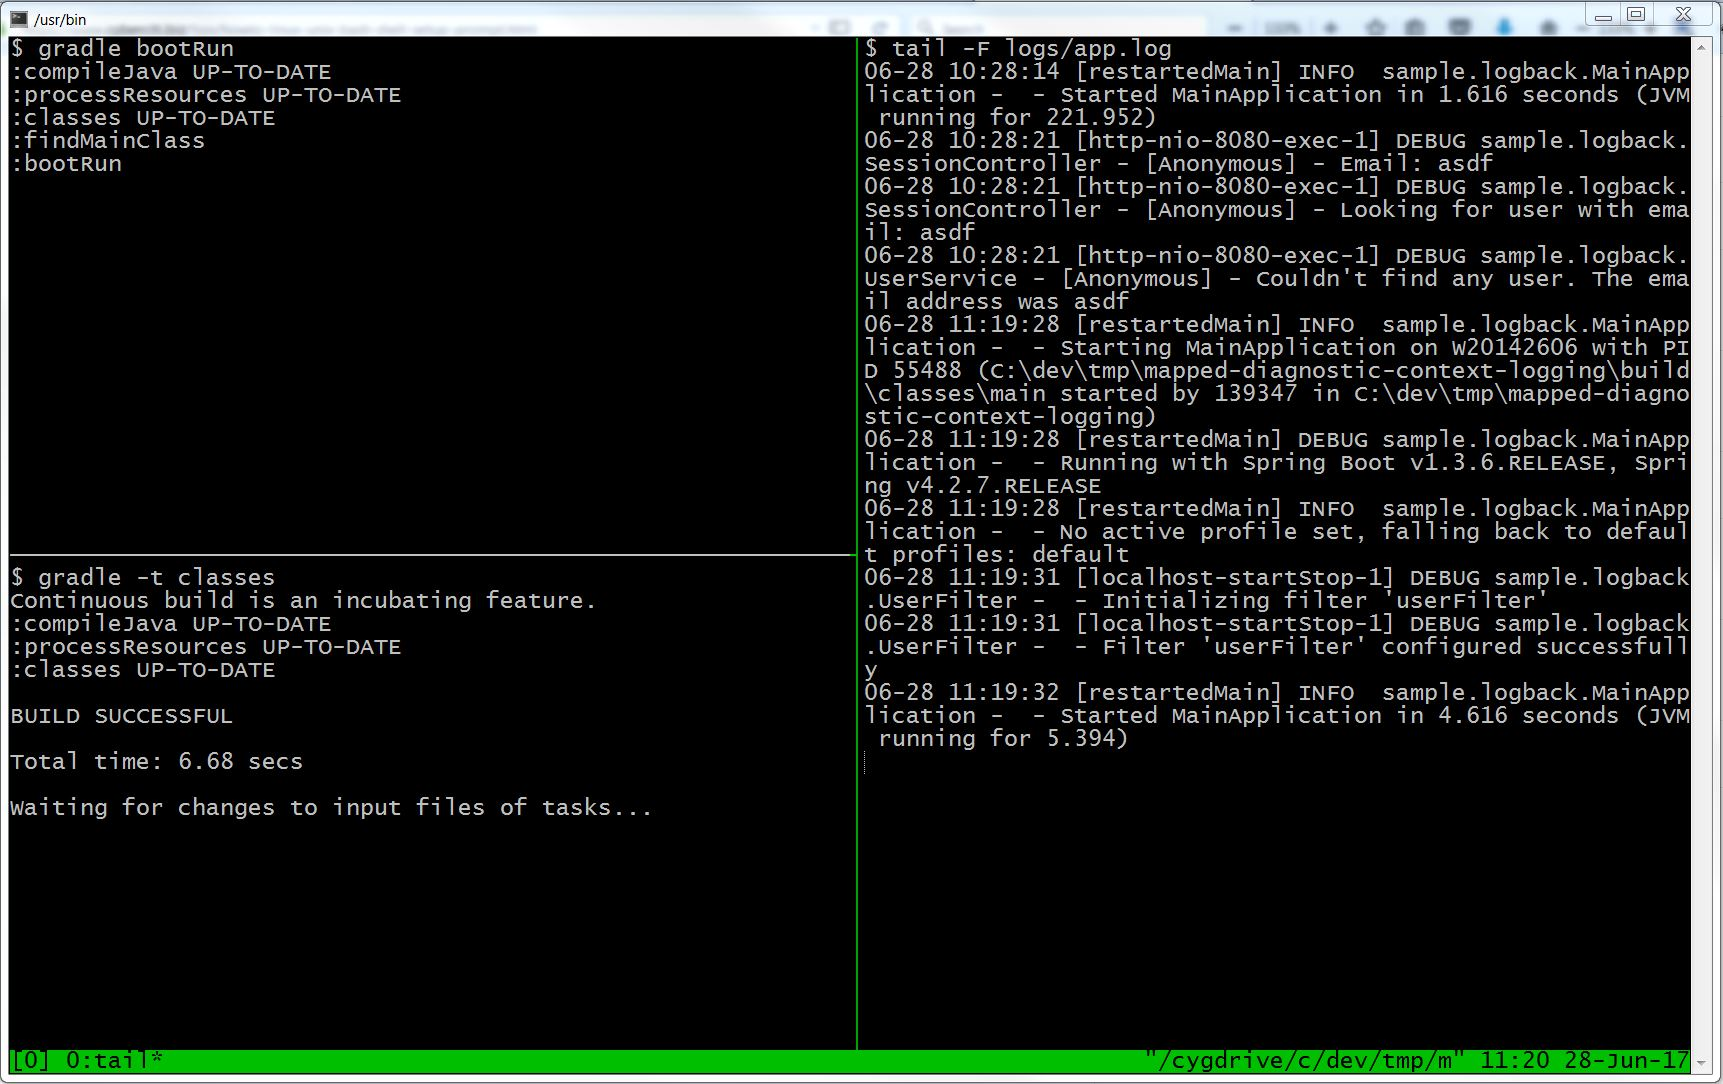
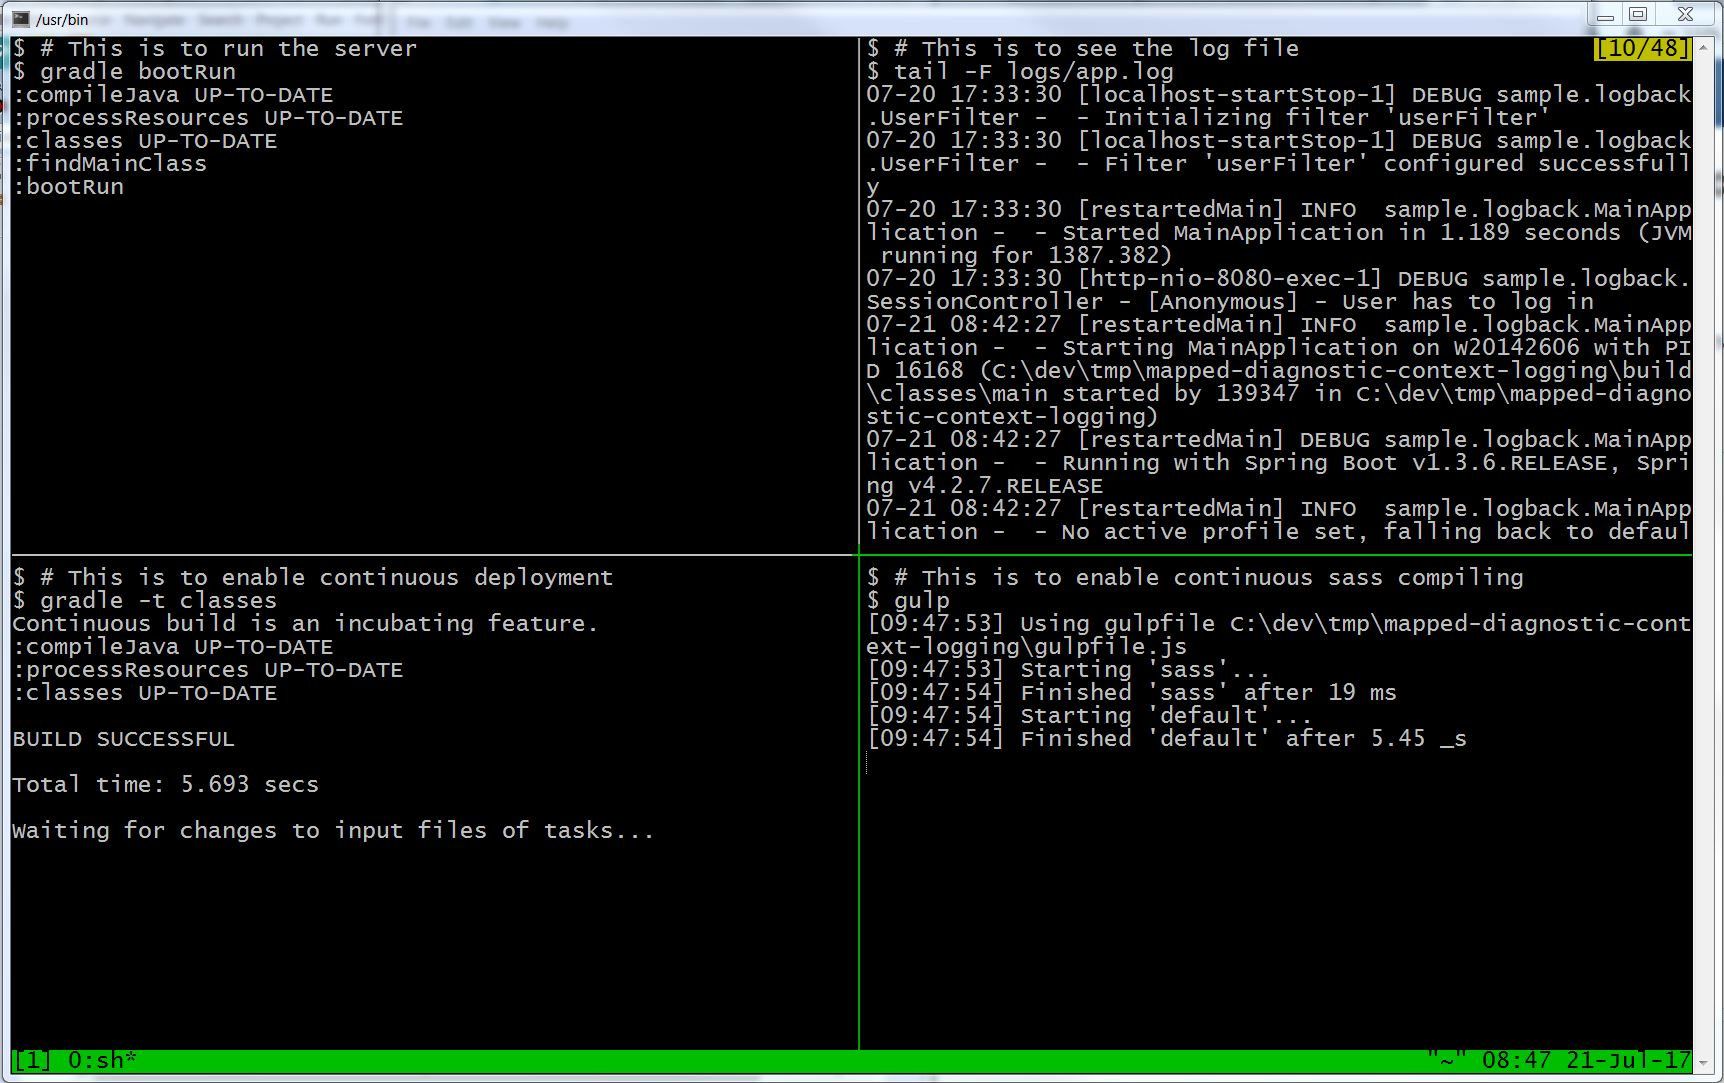
amended README

Changed region(s): [[0.0, 0.0, 1.0, 1.0]]

diff --git a/README.md b/README.md
@@ -7,16 +7,20 @@ and [Logback]
 ### Prerequisites
 - [Gradle](https://gradle.org/install)
 - JDK
+- NodeJS
+- Gulp
+- Bower
 
 ### Libraries
 - Spring Boot
 - Logback
+- SASS
 
 ## HOW TO RUN
 
 ![alt How To Run](docs/how-to-run.jpg?raw=true)
 
-You should have 3 windows running. One is to start the server with `gradle bootRun`. One is to continuously tracking/compiling changes with `gradle -t classes`. The final one is to see the log file with `tail -F logs/app.log`.
+You should have 4 windows running. One is to start the server with `gradle bootRun`. One is to continuously tracking/compiling changes with `gradle -t classes`. The next one is to see the log file with `tail -F logs/app.log`. The final one is optional and it enables continuous SASS compiling.
 
 ## DESIGN
 
